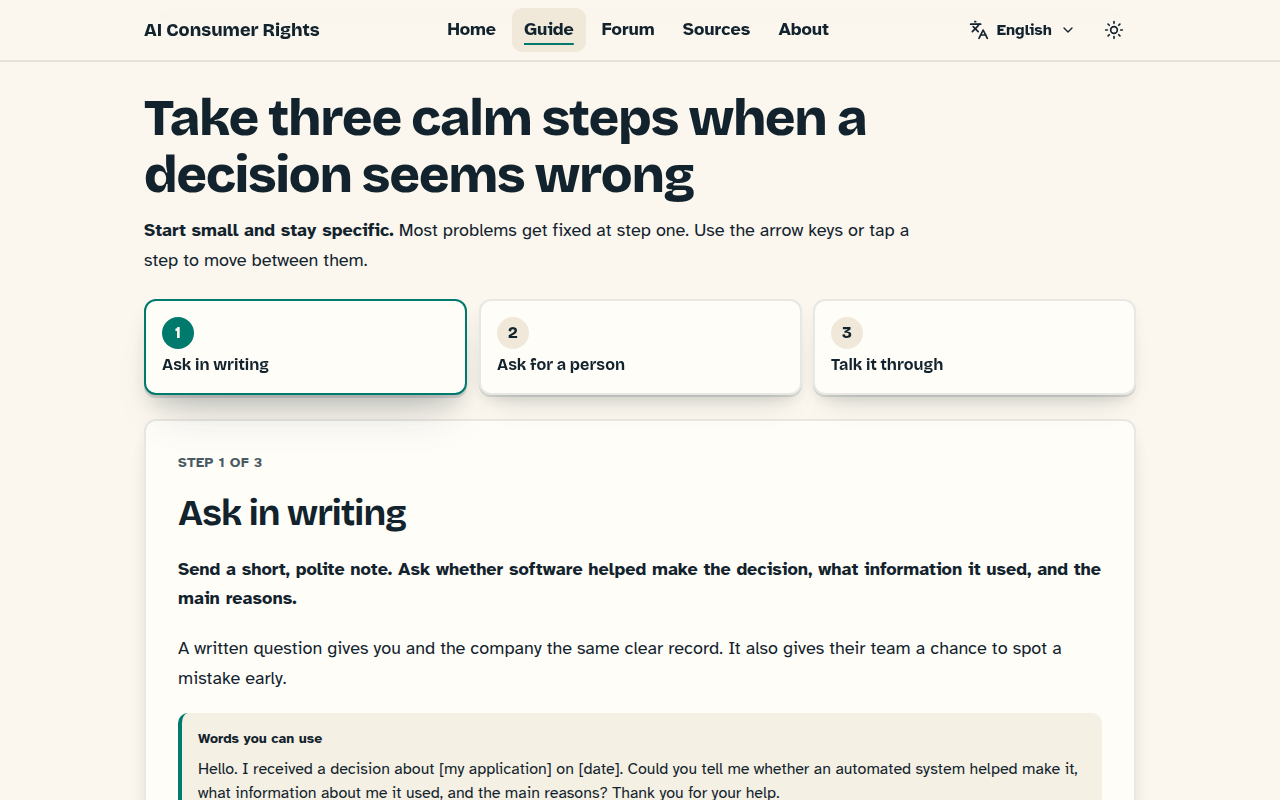
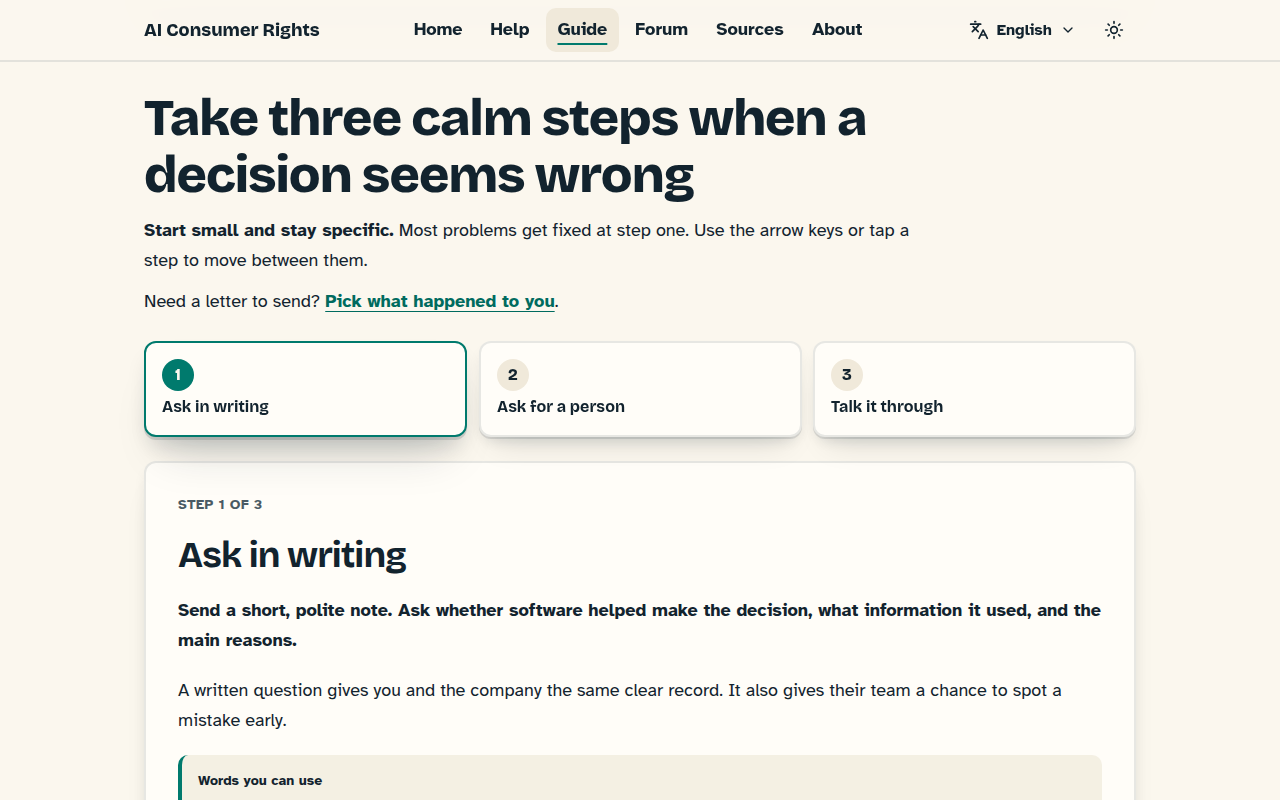
docs: add a content licence, security and contributing notes, and a CI check
- LICENSE-CONTENT states that the site's writing is CC BY 4.0; the code stays MIT.
- .github holds SECURITY, CONTRIBUTING, CODE_OF_CONDUCT, an issue template for
  corrections, and a workflow that runs lint, type-check, tests and the build.
- .nvmrc pins Node 24 for local work and CI.
- README: says honestly what the forum can and can't prevent, lists the
  environment variables and db:migrate, and names the current primary sources.
- Screenshots regenerated; the old ones predated the Help link in the nav.
- content/README.md lists the help pages and all eight languages.

Changed region(s): [[0.125, 0.625, 0.875, 1.0], [0.0938, 0.3438, 0.875, 0.5938], [0.3125, 0.0312, 0.6875, 0.0625]]

diff --git a/README.md b/README.md
@@ -2,7 +2,7 @@
 
 **Plain-language help with your rights when AI makes decisions about you, built through open, respectful dialogue.**
 
-🌐 **Live:** [aiconsumerrights.org](https://aiconsumerrights.org) · 🗣 English, Español, Português (PT), Português (BR), Italiano, Français, Deutsch, and हिन्दी · 📜 [MIT License](LICENSE) · ♿ Tested against WCAG 2.2 AA
+🌐 **Live:** [aiconsumerrights.org](https://aiconsumerrights.org) · 🗣 English, Español, Português (PT), Português (BR), Italiano, Français, Deutsch, and हिन्दी · 📜 Code: [MIT](LICENSE) · Writing: [CC BY 4.0](LICENSE-CONTENT) · ♿ Tested against WCAG 2.2 AA
 
 ![The guide page, "AI you can question", on a warm cream background](docs/screenshots/guide-light.png)
 
@@ -22,8 +22,8 @@ This project makes AI consumer rights easy to understand and easy to talk about.
 
 | | Safeguard | How the site does it |
 |---|---|---|
-| 🔁 | **Traceability** | Every forum question leads to a visible outcome, recorded in a "We asked, you said, we did" card. |
-| 🤖 | **Bot and spam resistance** | Voting uses single, stand-alone statements (Agree, Disagree, Pass). There are no reply threads. |
+| 🔁 | **Traceability** | The forum's "We asked, you said, we did" card records what changed because of votes. It stays empty until there is a real outcome to show. Fixed mistakes are listed in a public corrections log. |
+| 🤖 | **Bot and spam resistance** | Voting uses single, stand-alone statements (Agree, Disagree, Pass). There are no reply threads, and a person reads every suggestion before it is shown. Voting needs no account, so repeat votes can't be fully prevented; the site says so, and treats results as a rough signal. |
 | ♿ | **Zero-barrier access** | No account needed to vote. Pages aim for a grade 6 to 8 reading level and are tested against WCAG 2.2 AA. |
 | 🌉 | **Common ground first** | Votes are grouped by the language people vote in, and a statement counts as broad agreement only when every language group supports it. |
 | ⚡ | **Sturdy by design** | Static pages, kept separate from interactive features, so the content loads fast and keeps working. |
@@ -61,7 +61,7 @@ This project makes AI consumer rights easy to understand and easy to talk about.
 Every page ends with a **"How this site was made"** footer that lists:
 
 - 🤖 **The AI models that helped:** only those with a record of their work (GPT, Claude, Gemini, and unrecorded OpenRouter models).
-- 📚 **The primary sources:** UNESCO, Pew Research, the Stanford AI Index, W3C WCAG 2.2, the FTC, the CFPB, and the EU AI Act.
+- 📚 **The primary sources:** the laws and official pages the facts rest on, from the EU AI Act and the GDPR to national laws in the US, UK, Brazil, India, Italy, France, and Germany, plus UNESCO, Pew Research, the Stanford AI Index, and W3C WCAG 2.2.
 - 🧑⚖ **Human review status:** the footer says plainly when review is still pending.
 
 The full registry lives at [`/sources`](https://aiconsumerrights.org/en/sources) and in [`lib/data/sources.json`](lib/data/sources.json). Each entry records whether its link was opened and checked.
@@ -99,14 +99,25 @@ The full registry lives at [`/sources`](https://aiconsumerrights.org/en/sources)
 
 ## 🧰 Tech stack
 
-Next.js 14 (App Router) · next-intl · TypeScript · Tailwind CSS · shadcn/ui · Radix UI · next-themes · Jest + React Testing Library · jest-axe · axe-core + Puppeteer
+Next.js 14 (App Router) · next-intl · TypeScript · Tailwind CSS · shadcn/ui · Radix UI · next-themes · Neon Postgres (forum votes and suggestions) · Jest + React Testing Library · jest-axe · axe-core + Puppeteer
 
 ## 🚀 Getting started
+
+Use Node.js 24 (see `.nvmrc`).
 
 ```bash
 npm install
 npm run dev          # http://localhost:3000 (opens the language your browser asks for)
 ```
+
+The pages work with no setup. The forum's votes, suggestions, and review page need these in `.env.local`:
+
+| Variable | What it is for |
+|---|---|
+| `DATABASE_URL` | A Postgres database for votes and suggestions. Run `npm run db:migrate` once to create the tables. |
+| `OPENROUTER_API_KEY` | The AI check that looks for names and contact details in a suggestion. Without it, suggestions are marked "not checked". |
+| `FORUM_ADMIN_PASSWORD` | The password for the review page at `/admin`, 12 characters or more. |
+| `NEXT_PUBLIC_SITE_URL` | The site's address, if it is not `https://aiconsumerrights.org`. |
 
 | Command | What it does |
 |---|---|
@@ -116,8 +127,9 @@ npm run dev          # http://localhost:3000 (opens the language your browser as
 | `npm run build` | Makes the production build |
 | `npm run audit:a11y` | Runs a real-browser WCAG 2.2 A/AA audit of the production build, on every route in all eight languages, in light and dark, on desktop and mobile |
 | `npm run screenshots` | Regenerates the images in `docs/screenshots` |
+| `npm run db:migrate` | Creates the forum tables from `db/schema.sql` |
 
-> 💡 `audit:a11y` and `screenshots` need a Chromium browser. Set `CHROME_PATH` if yours is not at Playwright's default location.
+> 💡 `audit:a11y` and `screenshots` need a Chromium browser. Set `CHROME_PATH` to its location.
 
 ## 🗂 Project layout
 
@@ -132,7 +144,8 @@ components/help/      RegionPicker, LetterBuilder
 components/forum/     VotingEngine, StatementSubmission, ConsensusCluster
 lib/                  Site config, SEO helpers, source registry, help situations, forum database and statements
 lib/data/sources.json The transparency registry every citation resolves to
-scripts/              Real-browser accessibility audit and screenshot tools
+content/              The public logs, written by hand: corrections and "We did"
+scripts/              Real-browser accessibility audit, screenshot, and database setup tools
 __tests__/            Unit, integration, accessibility, i18n, and SEO tests
 ```
 
@@ -159,10 +172,10 @@ Ideas and fixes are welcome. Please follow the same principles the forum uses:
 4. 🔍 Be open about AI use, cite your sources, and say what you don't know.
 5. 🪜 Lift while you climb.
 
-Every change needs passing tests, a clean build, and a clean `npm run audit:a11y` run. Criticism with a reason is welcome at feedback@aiconsumerrights.org.
+Every change needs passing tests, a clean build, and a clean `npm run audit:a11y` run. Criticism with a reason is welcome at feedback@aiconsumerrights.org. See [CONTRIBUTING](.github/CONTRIBUTING.md), the [code of conduct](.github/CODE_OF_CONDUCT.md), and how to [report a security problem](.github/SECURITY.md).
 
 ## 📜 License
 
 [MIT](LICENSE) © 2026 Robert Sweetman
 
-The site's writing (the text in `messages/` and `content/`) is [CC BY 4.0](https://creativecommons.org/licenses/by/4.0/): reuse it with credit.
+The site's writing (the text in `messages/` and `content/`) is [CC BY 4.0](LICENSE-CONTENT): reuse it with credit.

diff --git a/.github/CONTRIBUTING.md b/.github/CONTRIBUTING.md
@@ -1,0 +1,40 @@
+# Contributing
+
+Ideas, corrections, and fixes are welcome. One person runs this site, with AI help, so replies can take a few days.
+
+## The quickest ways to help
+
+- **Something is wrong or out of date.** [Open an issue](https://github.com/e-allora/aiconsumerrights.org/issues/new/choose) or email feedback@aiconsumerrights.org. Say what is wrong, why, and how to fix it if you can.
+- **You can review a help page or a translation.** Lawyers, legal clinics, consumer organisations, and native speakers can write to reviewers@aiconsumerrights.org. Reviewers are named only with their permission.
+
+## How we work together
+
+1. Critique ideas, never people.
+2. Assume good faith.
+3. Pair positivity with substance.
+4. Be open about AI use, cite your sources, and say what you don't know.
+5. Lift while you climb.
+
+The full values are in [docs/MISSION.md](../docs/MISSION.md).
+
+## Rules for content
+
+- **Every legal claim cites a source** in `lib/data/sources.json`. An unknown source id fails the build.
+- **No person, company, or group is singled out.** Tests fail on blame words and on named companies.
+- **Plain language.** Short sentences and everyday words.
+- **All eight languages stay in step.** A test fails if a message key is missing in any language.
+- **A wrong published fact gets a public entry** in `content/corrections.json` when it is fixed.
+
+## Before you open a pull request
+
+```bash
+npm test             # unit, accessibility, i18n, and tone tests
+npx tsc --noEmit     # type-check
+npm run lint
+npm run build
+npm run audit:a11y   # real-browser WCAG 2.2 A/AA audit; needs Chromium
+```
+
+## Licences
+
+Code you contribute is under the [MIT License](../LICENSE). Text you contribute is under [CC BY 4.0](../LICENSE-CONTENT).

diff --git a/.github/SECURITY.md b/.github/SECURITY.md
@@ -1,0 +1,29 @@
+# Security
+
+One person runs this site, with AI help. If you find a security problem, thank you for telling us.
+
+## How to report
+
+Email **feedback@aiconsumerrights.org** with "Security" in the subject line. Please include:
+
+- what you found and where;
+- how to reproduce it;
+- what you think the impact is, and a fix if you have one.
+
+Please don't open a public issue for something that could put visitors at risk until it is fixed.
+
+## What to expect
+
+- A reply within a few days.
+- A fix as soon as one person can manage it, and an entry in the public [corrections log](https://aiconsumerrights.org/en/how-it-works#corrections).
+- Credit by name only if you ask for it.
+
+There is no bug bounty. Nobody is paid to work on this site.
+
+## Please take care with the live forum
+
+The forum's votes and suggestions are real and sit in one shared database. Please don't send bulk votes or suggestions to the live site to prove a point. A description is enough, or test against your own copy.
+
+## What the site holds
+
+No accounts, no ads, no tracking, no analytics. The [How this site works](https://aiconsumerrights.org/en/how-it-works) page lists every service the site uses and what each one sees.

diff --git a/.github/CODE_OF_CONDUCT.md b/.github/CODE_OF_CONDUCT.md
@@ -1,0 +1,21 @@
+# Code of conduct
+
+This project follows the same values as the site. They are set out in [docs/MISSION.md](../docs/MISSION.md).
+
+## How we work
+
+- **Critique ideas, never people.** No person, company, or group is shamed here.
+- **Assume good faith.** People in every sector are mostly doing their best with what they know.
+- **Ethics and transparency.** Name your sources, your tools, and any AI help, and say what isn't finished.
+- **Positivity with substance.** Kind and rigorous at the same time.
+- **Lift while you climb.** Everyone is welcome as they are. Beginner questions count.
+- **Protect privacy.** Share as little personal detail as possible, yours or anyone else's.
+- **Accept correction gracefully.** Criticism with a reason makes this site better.
+
+## Never allowed
+
+Hate, harassment, doxxing, slurs, or mocking anyone's question.
+
+## If something goes wrong
+
+Email feedback@aiconsumerrights.org. Robert Sweetman reads every message. He may remove a comment, close an issue, or ask someone to step back, and he will say why.

diff --git a/content/README.md b/content/README.md
@@ -24,9 +24,9 @@ Copy this into the `entries` list in `corrections.json`. Order doesn't matter; t
 ```
 
 - `date` is the day the fix went live.
-- `page` is the page's path without the language: `/`, `/guide`, `/forum`, `/sources`, `/about` or `/how-it-works`.
+- `page` is the page's path without the language: `/`, `/guide`, `/forum`, `/sources`, `/about`, `/how-it-works`, `/help`, or a help guide such as `/help/credit`.
 - Leave out `flaggedBy` unless the person asked for credit. Leave out `commit` if there isn't one.
-- English is required. Add `"es"`, `"pt-PT"`, `"pt-BR"` or `"it"` next to `"en"` when you have a translation. Until then, that language shows the English text, marked as English.
+- English is required. Add `"es"`, `"pt-PT"`, `"pt-BR"`, `"it"`, `"fr"`, `"de"` or `"hi"` next to `"en"` when you have a translation. Until then, that language shows the English text, marked as English.
 
 ## Add a "We did" entry
 

diff --git a/.github/ISSUE_TEMPLATE/correction.md b/.github/ISSUE_TEMPLATE/correction.md
@@ -1,0 +1,20 @@
+---
+name: Something is wrong or out of date
+about: Tell us what is wrong, why, and how to fix it
+labels: correction
+---
+
+**Which page, and in which language?**
+<!-- For example: https://aiconsumerrights.org/en/help/credit?where=us -->
+
+**What is wrong?**
+<!-- Quote the sentence if you can. -->
+
+**Why is it wrong?**
+<!-- A link to the law or official page helps most. -->
+
+**How would you fix it?**
+<!-- Optional. -->
+
+**May we credit you in the corrections log?**
+<!-- Say "yes, as <name>" or "no". The default is no. -->
